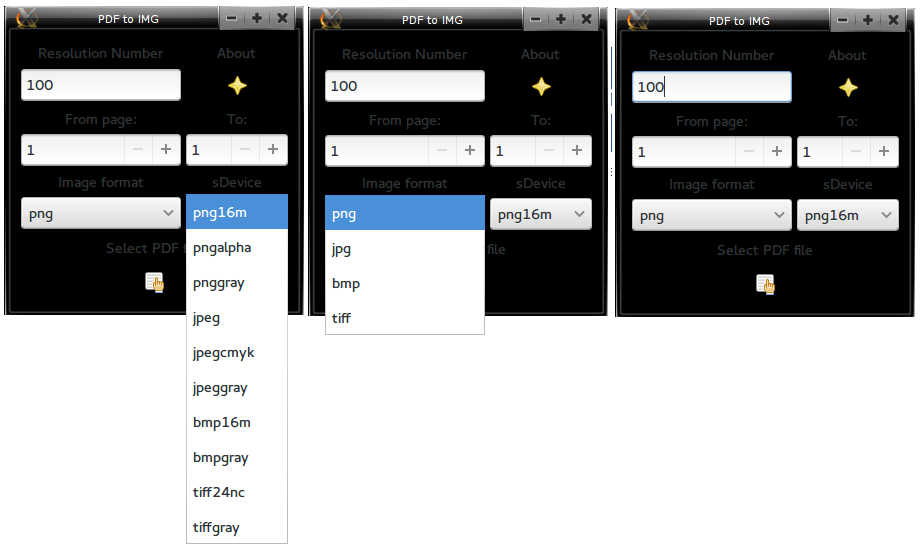
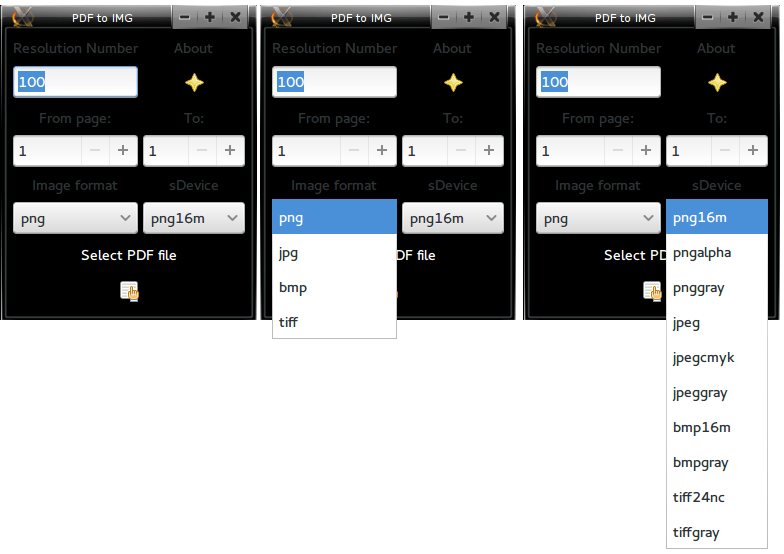
shrinked the application size

diff --git a/pdf2img_gui.py b/pdf2img_gui.py
@@ -75,6 +75,7 @@ class MainWindow(Gtk.Window):
         grid.attach(label, Gtk.PositionType.LEFT, 1, 1, 1)
 
         self.entry = Gtk.Entry()
+        self.entry.set_width_chars(1)
         self.entry.set_text("100")
         self.entry.set_max_length(4)
         grid.attach(self.entry, Gtk.PositionType.LEFT, 2, 1, 1)
@@ -126,6 +127,7 @@ class MainWindow(Gtk.Window):
         grid.attach(self.comboboxtext, Gtk.PositionType.RIGHT, 6, 1, 1)
 
         label = Gtk.Label(label="Select PDF file")
+        label.override_color(Gtk.StateFlags.NORMAL, Gdk.RGBA(1, 1, 1, 1))
         vbox.add(label)
         #self.button1 = Gtk.Button(label="Select file")
         self.button1 = Gtk.ToolButton(stock_id=Gtk.STOCK_INDEX)
